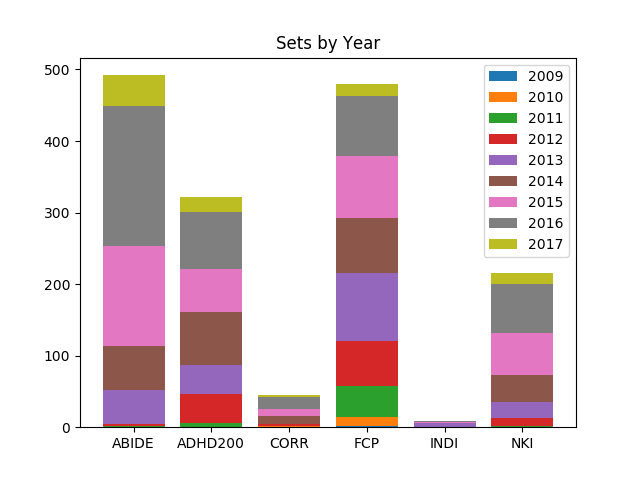
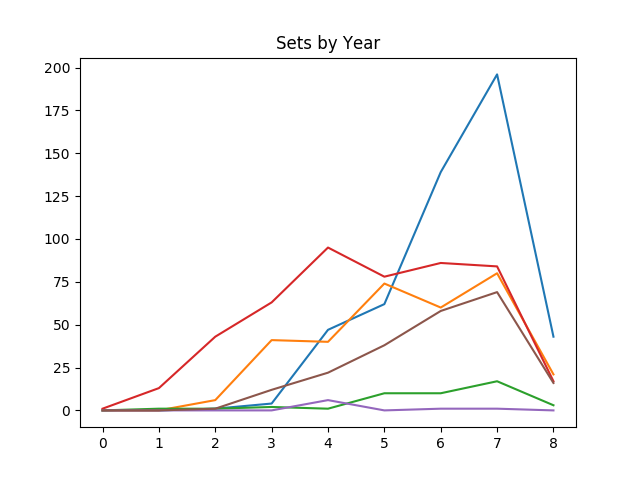
Updates to bar stacking

diff --git a/biblio_reader/scholar_reader.py b/biblio_reader/scholar_reader.py
@@ -5,6 +5,7 @@ import os, datetime, collections
 import numpy as np
 from biblio_reader import validity_analysis
 STAT_DIR = mg.dir(os.path.join(mg.OUTPUT_PATH, 'stats'))
+data = mg.get_data()
 
 
 def count_visualizer(value_count, stat_type, name, row_limit=None):
@@ -46,7 +47,7 @@ def citations_per_year(data, sort=False):
         mg.update_data()
 
 
-def stack_bar(data, column, stacker, stack_type, split=None):
+def stack_bar(data, column, stacker, stack_type, stat, split=None):
     """
     Almost the same as value counter, except each bar is stacked by a specific other column (such as finding out most
     popular journals by year, or term sets by usage, etc.) Examples are in the stats file
@@ -68,23 +69,39 @@ def stack_bar(data, column, stacker, stack_type, split=None):
                        for value in values.split(split)]
         stacks.append({typ: count for typ, count in sorted(collections.Counter(stacked).items())[:10]})
     max_stack = max(stacks, key=len)
-    print([len(stack) for stack in stacks])
-    last_stack = list(np.zeros(len(max_stack), dtype=np.int))
-    for name, stack in zip(stacker, stacks):
+    repaired_stacks = []
+    for stack in stacks:
         empty_stacks = {key: 0 for key in max_stack.keys() if key not in stack}
         if len(empty_stacks) > 0:
             stack.update(empty_stacks)
-            stack = {key: value for key, value in sorted(stack.items()) if key in max_stack}
-        print(name, stack, last_stack)
-        plt.bar(range(len(stack)), list(stack.values()), align='center', label=name,
-                bottom=last_stack)
-        last_stack = [x + y for x, y in zip(last_stack, list(stack.values()))]
-    plt.xticks(range(len(max_stack)), max_stack.keys())
+            repaired_stacks.append({key: value for key, value in sorted(stack.items()) if key in max_stack})
+        else:
+            repaired_stacks.append(stack)
+    stacks = repaired_stacks
+    if stat == 'bar':
+        last_stack = list(np.zeros(len(max_stack), dtype=np.int))
+        for name, stack in zip(stacker, stacks):
+            plt.bar(range(len(stack)), list(stack.values()), align='center', label=name,
+                    bottom=last_stack)
+            last_stack = [x + y for x, y in zip(last_stack, list(stack.values()))]
+        plt.xticks(range(len(max_stack)), max_stack.keys())
+    if stat == 'plot':
+        plot_dict = dict()
+        for stack in stacks:
+            for key, value in stack.items():
+                if key in plot_dict:
+                    plot_dict[key].append(value)
+                else:
+                    plot_dict[key] = [value]
+        for stack, plot in plot_dict.items():
+            plt.plot(plot, label=stack)
+        plt.xticks(range(len(stacker)), stacker)
     plt.legend()
     title = ' by '.join([column, stack_type])
     plt.title(title)
-    plt.savefig(os.path.join(STAT_DIR, title.lower().replace(' ', '_') + '.png'))
+    plt.savefig(os.path.join(STAT_DIR, title.lower().replace(' ', '_') + '_' + stat + '.png'))
 
+stack_bar(data[data['Data Use'] != 'Y'], 'Sets', range(2009, 2017), 'Year', 'plot', split=';')
 
 def count_sets(data):
     """

diff --git a/biblio_reader/validity_analysis.py b/biblio_reader/validity_analysis.py
@@ -1,6 +1,6 @@
 import manager as mg
 import os, sys, csv, collections
-from biblio_reader import scholar_reader
+from biblio_reader.scholar_reader import categorize_journals
 
 checks = mg.dir(os.path.join(mg.INPUT_PATH, 'validity_checks'))
 authors = mg.get_author_sets()
@@ -80,8 +80,7 @@ def correct_types(directory, data):
                             journal_types[k] = 'Other'
                     else:
                         journal_types[k] = 'Other'
-    journal_types.update({key: typ for key, typ in scholar_reader.
-                         categorize_journals(data, categories).items()
+    journal_types.update({key: typ for key, typ in categorize_journals(data, categories).items()
                           if key not in journal_types})
     for key, type in journal_types.items():
         if type == 'Unknown':
